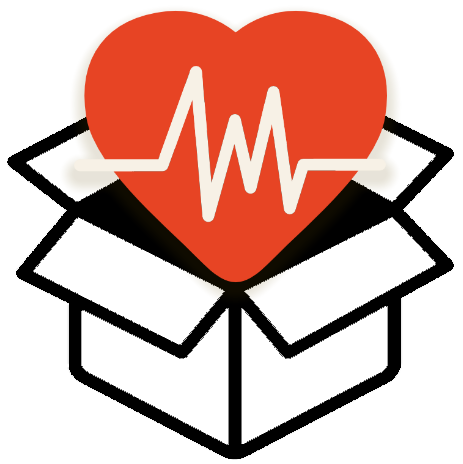
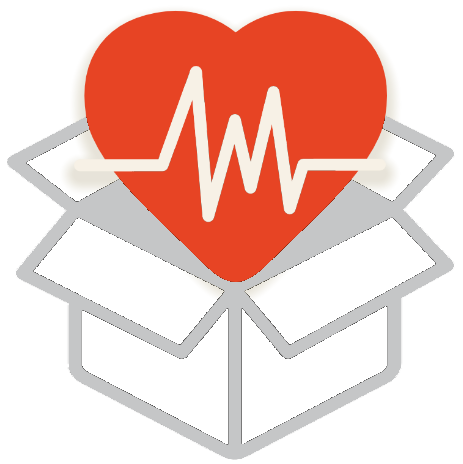
u

Changed region(s): [[0.0, 0.2414, 0.9978, 0.9957]]

diff --git a/QA2020/SCD.html b/QA2020/SCD.html
@@ -33,7 +33,7 @@
 </head>
 
 <style>
-
+body {background: #c5c6c7;}
 .exo {font-family: 'Exo 2', sans-serif;}
 .san2 {font-family: 'Roboto', sans-serif;}
 .cursive {font-family: 'Satisfy', cursive;}
@@ -60,20 +60,23 @@
 .arrowR {cursor: pointer;}
 .topCurve {border-top-left-radius: 1vmax;border-top-right-radius: 1vmax}
 .imageSetup {max-width:100%;max-height: 80vh;padding: 0.5vmax}
+.nav {position: fixed;margin-left: auto;margin-right: auto;bottom: 1vh;font-size: 2.5vh;text-align: center;width: 100%;}
 
 @media only screen and (max-width: 600px){
   .titlePad {padding-top:30vh}
   .title {transform: skewY(-30deg)}
   .titleTxt {transform: skewY(30deg)}
+  .nav {font-size: 2vh;}
 }
 @media only screen and (max-width: 800px){
   .fbPos {top:92vh;right:3vw}
   .imageSetup {width:100%;max-height:auto;}
+  .nav {font-size: 2vh;}
 }
 
 #clinical {white-space:pre-line}
 #exp {white-space:pre-line}
-.navBtn {box-shadow: rgba(59, 59, 59, 0.6) 2px -2px 4px;border-radius: 0.2vmax;padding: 0.3vh 0.3vw;
+.navBtn {box-shadow: rgba(59, 59, 59, 0.6) 2px -2px 4px;border-radius: 0.2vmax;padding: 0.3vh 3vw;
 background-color: #c5c6c7;display: block;text-align: center;cursor: pointer;float: left;}
 #aImage {cursor: pointer}
 #indexList {position: fixed;max-height:50vh;max-width:50vw;display: none;
@@ -128,10 +131,9 @@ box-shadow: rgba(59, 59, 59, 0.6) 2px -2px 4px;}
 
 <!--front page-->
 <div id="frontP" class="red">
-    <div class="title">
+    <div class="title" onclick="showQPage(0)" title="click here to continue" style="cursor: pointer;">
       <div class="titleTxt">
-        <div class="titlePad" style="font-size: 6vmax;line-height: 90%" onclick="showQPage(0)"
-          title="click here to continue">
+        <div class="titlePad" style="font-size: 6vmax;line-height: 90%">
             <div>
               <span class="exo" style="color:white">&nbsp; Sudden </span><br>
               <span class="cursive" style="color:#d1001c;z-index: 2;position: relative">
@@ -152,13 +154,9 @@ box-shadow: rgba(59, 59, 59, 0.6) 2px -2px 4px;}
           </div>
         </div>
         <div class="exo fbPos" style="color:#c5c6c7">
-          Sudden Cardiac Death Qs&As is a part of <br>
-            <a href="https://heartrhythmbox.com/qa2020/" target="_blank" style="font-size: 1.4vmax;">
-            EP Q&A 2020 Series
-            </a><br> and a part of
-            <a href="https://heartrhythmbox.com/" target="_blank" style="text-decoration:none;font-size: 1.4vmax;">
-                  <img src="box transparent.png" style="width:1.5vmax;">
-                  heartRhythmBox.com
+                      <a href="https://heartrhythmbox.com/" target="_blank" style="text-decoration:none;font-size: 1.4vmax;">
+                  <img src="box transparent.png" style="width:2vmax;">
+                  <br>heartRhythmBox.com
             </a>
         </div>
       </div>
@@ -272,24 +270,19 @@ color:#555;font-weight: 600;line-height: 200%;">
 
   <div class="exo" style="font-size:1vmax;color:#878787;
   padding: 1.5vmax 1vmax 5vmax 1vmax;text-align: right; border-top: #273240 solid 0.1vh">
-    SCD Qs&As is a part of
-    <br>
-    <a href="https://heartrhythmbox.com/qa2020/" target="_blank" style="color: white;">
-    EP Q&A 2020 Series
-    </a><br> and a part of
-    <a href="https://heartrhythmbox.github.io/main/" target="_blank" style="text-decoration:none;">
-          <img src="box transparent.png" style="width:1.3vmax;">
+        <a href="https://heartrhythmbox.github.io/main/" target="_blank" style="text-decoration:none;">
+          <img src="box transparent.png" style="width:1.8vmax;"><br>
           HeartRhythmBox.com
     </a>
     
   </div>
 
   <!--nav bar-->
-  <div style="position: fixed;margin-left: auto;margin-right: auto;bottom: 1vh;font-size: 1.2vmax;text-align: center;width: 100%;">
+  <div class="nav">
     <!--index-->
     <ul id="indexList" class="san2" style="list-style-type:decimal;text-align: justify;">
     </ul>
-    <ul id="navBar" class="exo" style="opacity: 0.9;padding: 1vmax;margin-right: auto;margin-left: auto;
+    <ul id="navBar" class="exo" style="opacity: 0.8;padding: 1vmax;margin-right: auto;margin-left: auto;
     text-align: center;list-style-type: none;display: inline-block;">
       <li class="navBtn">Home</li>
       <li class="navBtn">&nbsp;&LeftAngleBracket;&nbsp;</li>

diff --git a/basicPPM/index.html b/basicPPM/index.html
@@ -72,20 +72,23 @@ line-height: 130%;background-color: rgba(256, 256, 256,0.8);}
 .arrowR {cursor: pointer;}
 .topCurve {border-top-left-radius: 1vmax;border-top-right-radius: 1vmax}
 .imageSetup {max-width:100%;max-height: 80vh;padding: 0.5vmax}
+.nav {font-size: 2.5vh;}
 
 @media only screen and (max-width: 600px){
   .titlePad {padding-top:30vh}
   .title {transform: skewY(-30deg)}
   .titleTxt {transform: skewY(30deg)}
+  .nav {font-size: 2.2vh;}
 }
 @media only screen and (max-width: 800px){
   .fbPos {top:90vh;right:2vw}
   .imageSetup {width:100%;max-height:auto;}
+  .nav {font-size: 2.2vh;}
 }
 
 #clinical {white-space:pre-line}
 #exp {white-space:pre-line}
-.navBtn {box-shadow: rgba(59, 59, 59, 0.6) 2px -2px 4px;}
+.navBtn {box-shadow: rgba(59, 59, 59, 0.6) 2px -2px 4px;padding-left:4vmax;padding-right: 4vmax;}
 #aImage {cursor: pointer}
 #indexList {position: fixed;max-height:50vh;max-width:50vw;display: none;
 overflow-x: hidden;overflow-y:scroll;z-index: 2;background-color:rgba(241, 241, 241,0.95);
@@ -139,7 +142,7 @@ box-shadow: rgba(59, 59, 59, 0.6) 2px -2px 4px;}
 <body>
 
 <!--front page-->
-<div id="frontP" style="max-height: 100vh;overflow: hidden;" class="cyan" onclick="showQPage(0)">
+<div id="frontP" style="max-height: 100vh;overflow: hidden;cursor: pointer;" class="cyan" onclick="showQPage(0)">
     <div class="title">
       <div class="titleTxt">
         <div class="w3-container titlePad" style="font-size: 6vmax;line-height: 90%" 
@@ -168,13 +171,9 @@ box-shadow: rgba(59, 59, 59, 0.6) 2px -2px 4px;}
             
         
         <div class="w3-container exo fbPos" style="color:#878787">
-          Basic Pacing Concept Qs&As is a part of <br>
-            <a href="https://heartrhythmbox.com/qa2020/" target="_blank" style="font-size: 1.4vmax;">
-            EP Q&A 2020 Series
-            </a><br> and a part of
                     
             <a href="https://heartrhythmbox.com/" target="_blank" style="text-decoration:none;font-size: 1.4vmax;">
-                  <img src="box transparent.png" style="width:1.5vmax;">
+                  <img src="box transparent.png" style="width:2vmax;">
                   heartRhythmBox.com
             </a>
         </div>
@@ -270,28 +269,23 @@ box-shadow: rgba(59, 59, 59, 0.6) 2px -2px 4px;}
 
   <div class="w3-row exo" style="font-size:1vmax;color:#878787;
   padding: 1.5vmax 1vmax 5vmax 1vmax;text-align: right; border-top: #273240 solid 0.1vh">
-    Basic Pacing Concept Qs&As is a part of
-    <br>
-    <a href="https://heartrhythmbox.com/qa2020/" target="_blank" style="color: white;">
-    EP Q&A 2020 Series
-    </a><br> and a part of
     <a href="https://heartrhythmbox.github.io/main/" target="_blank" style="text-decoration:none;">
-          <img src="box transparent.png" style="width:1.3vmax;">
+          <img src="box transparent.png" style="width:1.8vmax;"><br>
           HeartRhythmBox.com
     </a>
     
   </div>
 
   <!--nav bar-->
-  <div class="w3-bottom w3-center w3-mobile">
+  <div class="w3-bottom w3-center w3-mobile nav">
     <!--index-->
-    <ul id="indexList" class="w3-ul san2 w3-padding-small w3-center">
+    <ul id="indexList" class="w3-ul san2 w3-center">
     </ul>
-    <div id="navBar" class="w3-bar exo w3-mobile w3-medium" style="opacity: 0.9;padding: 1vmax;">
-      <div class="w3-bar-item w3-button w3-round ltGrey w3-padding-small navBtn">Home</div>
-      <div class="w3-bar-item w3-button w3-round ltGrey w3-padding-small navBtn">&nbsp;&LeftAngleBracket;&nbsp;</div>
-      <div id="currentQ" class="w3-bar-item w3-button w3-round ltGrey w3-padding-small navBtn"></div>
-      <div class="w3-bar-item w3-button w3-round ltGrey w3-padding-small navBtn">&nbsp;&RightAngleBracket;&nbsp;</div>
+    <div id="navBar" class="w3-bar exo w3-mobile" style="opacity: 0.8;">
+      <div class="w3-bar-item w3-button w3-round ltGrey navBtn">Home</div>
+      <div class="w3-bar-item w3-button w3-round ltGrey navBtn">&nbsp;&LeftAngleBracket;&nbsp;</div>
+      <div id="currentQ" class="w3-bar-item w3-button w3-round ltGrey navBtn"></div>
+      <div class="w3-bar-item w3-button w3-round ltGrey navBtn">&nbsp;&RightAngleBracket;&nbsp;</div>
     </div>
   </div>
 
